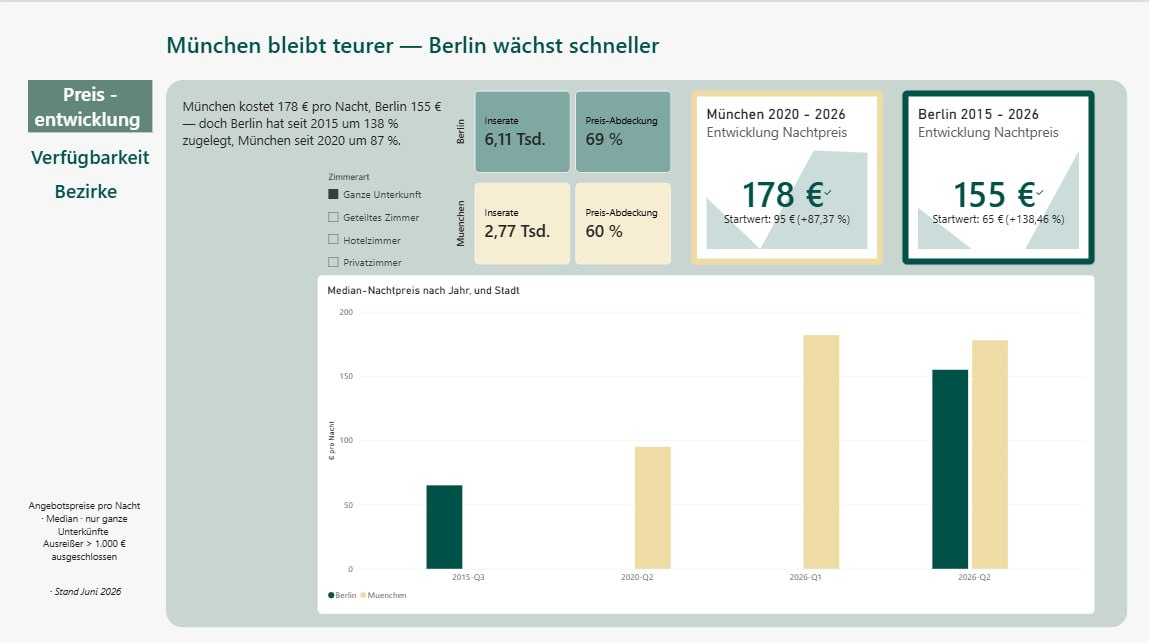
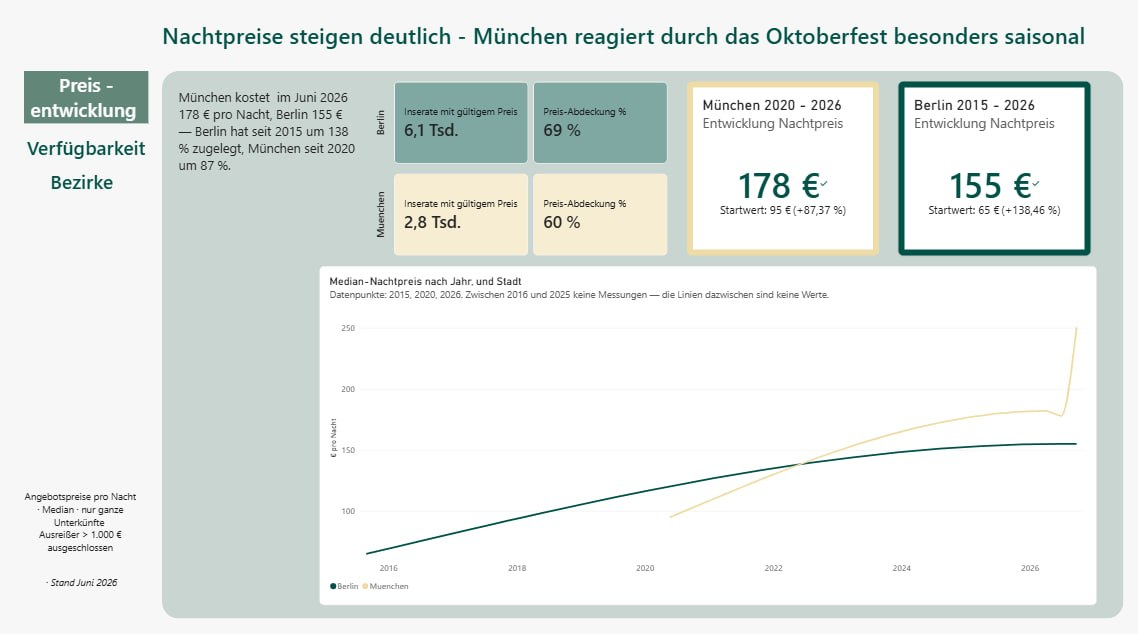
docs: Startseite auf Juni-Stand ohne Datenslicer
- powerbi_startseite.png ersetzt: Kacheltitel jetzt vollstaendig
  ('Inserate mit gueltigem Preis', 'Preis-Abdeckung %'), kein
  sichtbarer Datenslicer mehr, Titel nennt den Wiesn-Effekt
- README: Cache-Parameter ?v=3 -> ?v=4

diff --git a/README.md b/README.md
@@ -247,7 +247,7 @@ Das Säulendiagramm stellt denselben Median je Snapshot gegenüber: Berlin
 beiden Städte mit ihren unterschiedlichen Snapshot-Daten nebeneinander lesbar
 bleiben.
 
-![Startseite des Power-BI-Berichts: Preisentwicklung Berlin und München](docs/powerbi_startseite.png?v=3)
+![Startseite des Power-BI-Berichts: Preisentwicklung Berlin und München](docs/powerbi_startseite.png?v=4)
 
 **Seite 2 „Verfügbarkeit"** — nur ganze Unterkünfte, Median je Inserat, Stand
 26./29. Juni 2026: Median-Nachtpreis 155 € in Berlin gegen 178 € in München,
